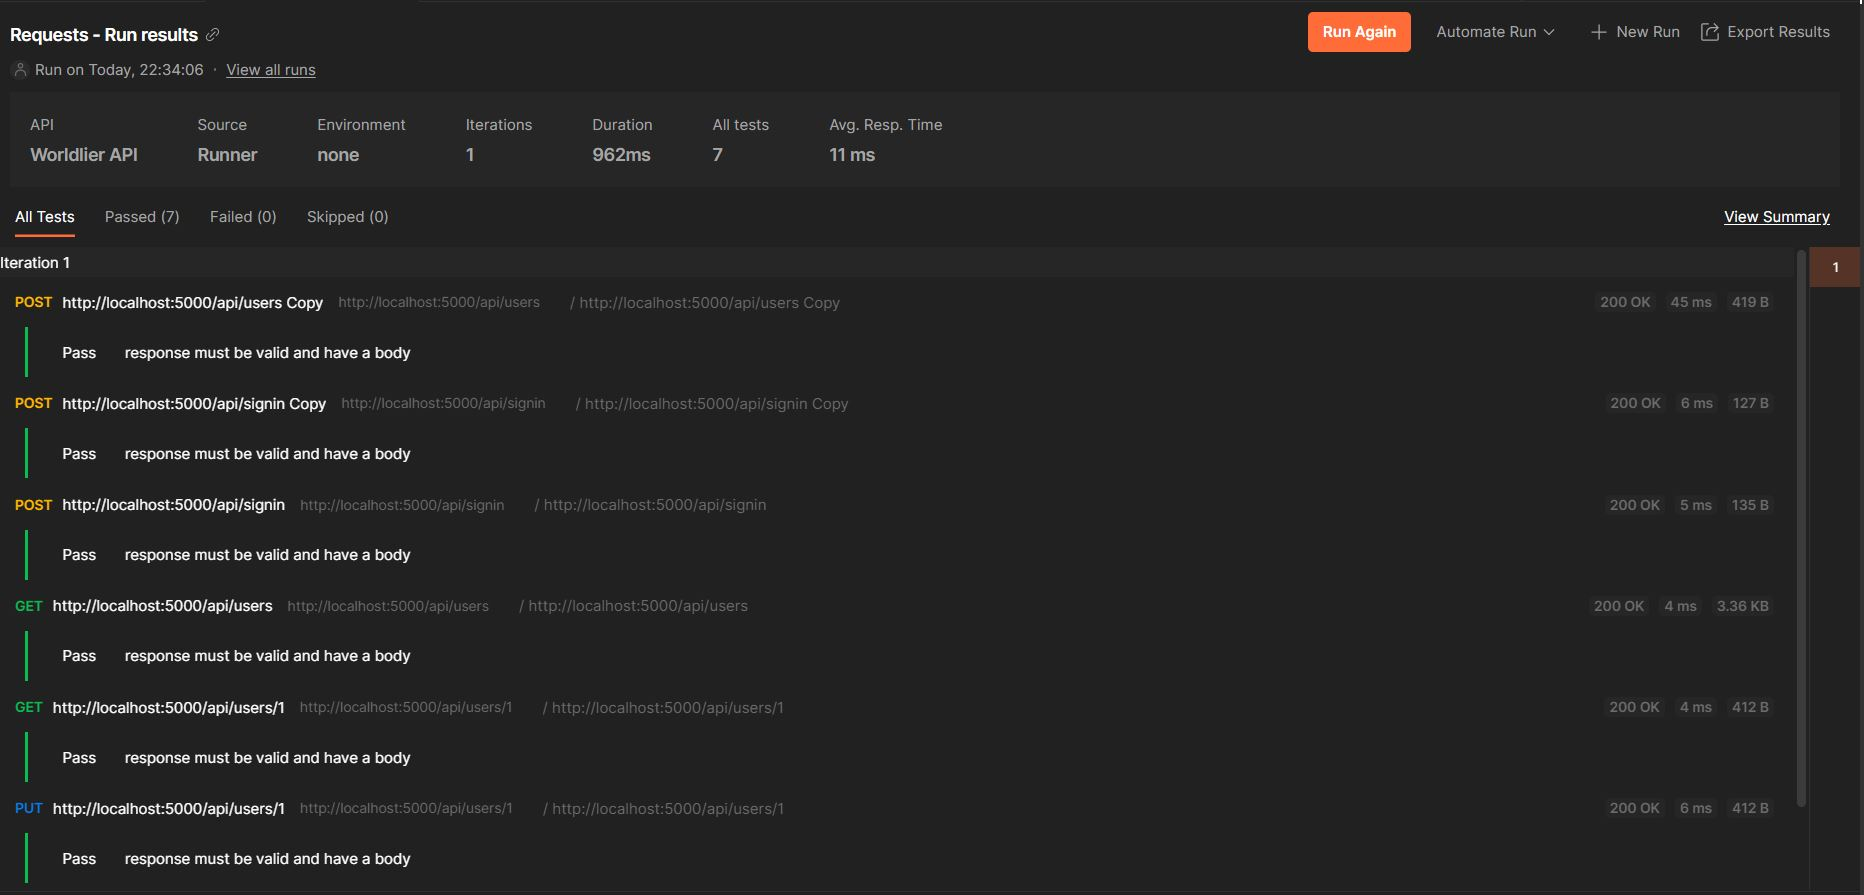
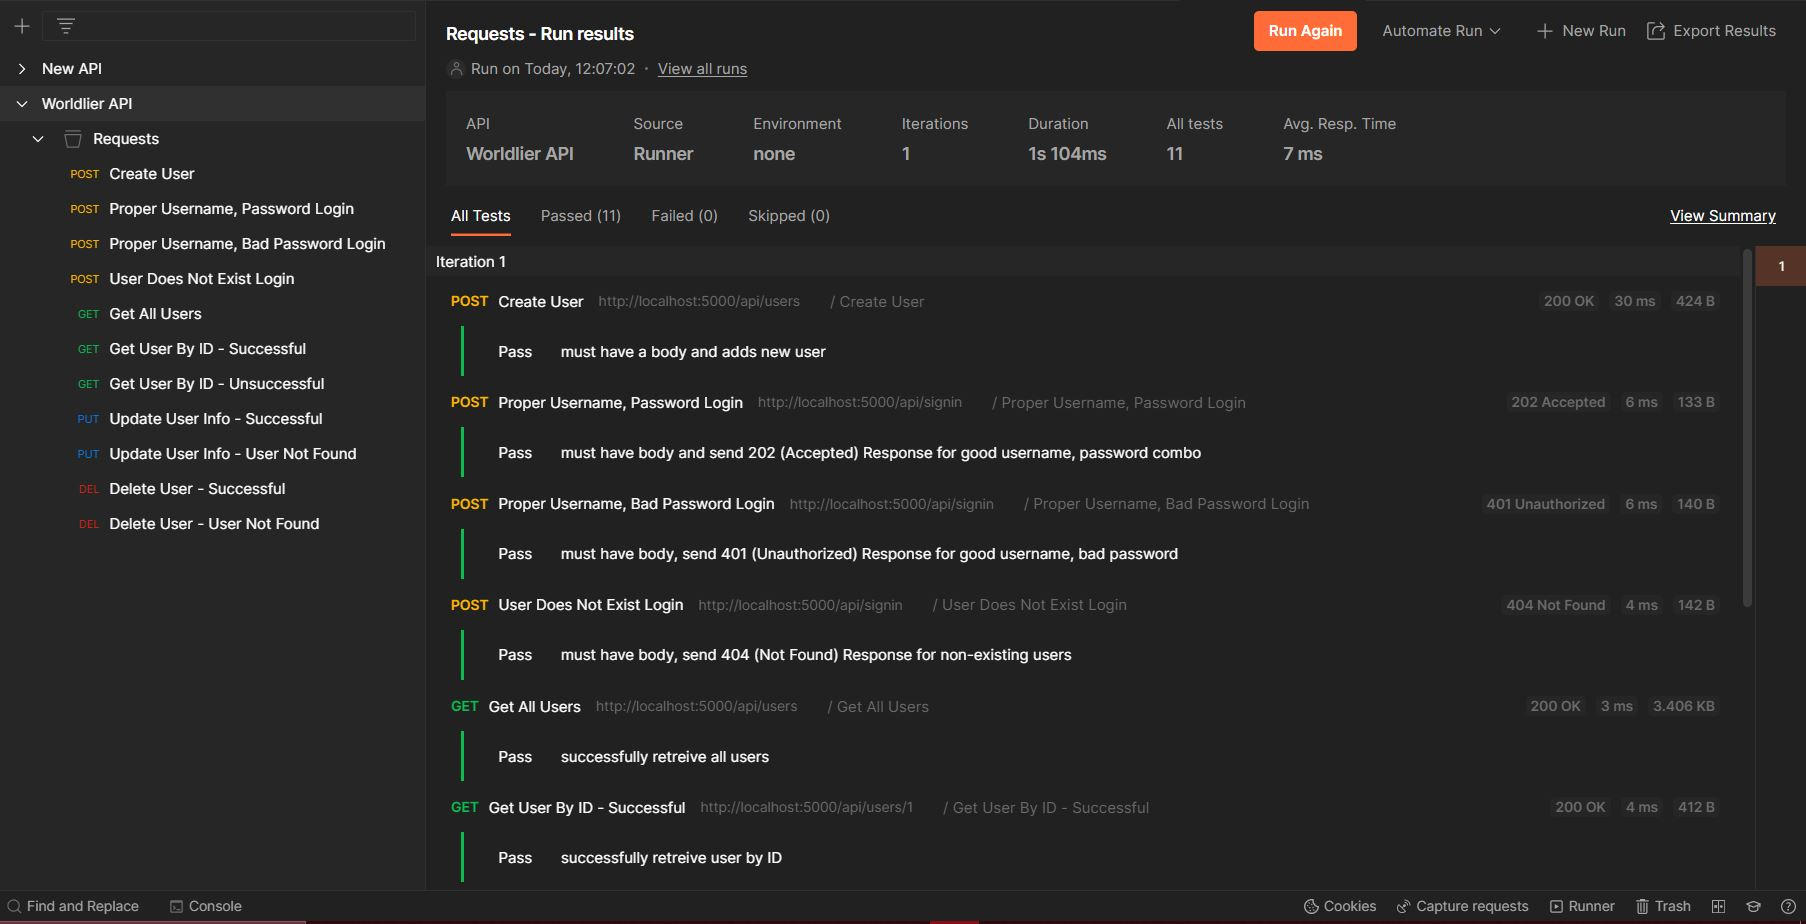
Sending proper HTTP response status codes

diff --git a/backend/user_controller.go b/backend/user_controller.go
@@ -66,15 +66,19 @@ func UserLoginAttempt(w http.ResponseWriter, r *http.Request) {
 	userName := user.Username
 	password := user.Password
 	if !(CheckIfUserNameExists(userName)) {
+		w.WriteHeader(http.StatusNotFound)
 		json.NewEncoder(w).Encode("No such username exists!")
 		return
 		// Checks if username does not exist
 	}
 	if !(CheckIfExactUserExists(userName, password)) {
+		w.WriteHeader(401)
 		json.NewEncoder(w).Encode("Incorrect password!")
 		return
 		// Checks if username exists, but password is incorrect
 	}
+	w.WriteHeader(202)
+	// Code for 'Accepted'
 	json.NewEncoder(w).Encode("Proceed to page!")
 	// Checks if username and password check out, from here, proceed to profile page
 }
@@ -83,6 +87,7 @@ func UserLoginAttempt(w http.ResponseWriter, r *http.Request) {
 func GetUserByName(w http.ResponseWriter, r *http.Request) {
 	userName := mux.Vars(r)["username"]
 	if !CheckIfUserNameExists(userName) {
+		w.WriteHeader(http.StatusNotFound)
 		json.NewEncoder(w).Encode("User Not Found! (NAME)")
 		return
 	}
@@ -102,6 +107,7 @@ func QueryHandler(w http.ResponseWriter, r *http.Request) {
 func GetUserById(w http.ResponseWriter, r *http.Request) {
 	userId := mux.Vars(r)["id"]
 	if !CheckIfUserIdExists(userId) {
+		w.WriteHeader(http.StatusNotFound)
 		json.NewEncoder(w).Encode("User Not Found!")
 		return
 	}
@@ -123,6 +129,7 @@ func GetUsers(w http.ResponseWriter, r *http.Request) {
 func UpdateUser(w http.ResponseWriter, r *http.Request) {
 	userId := mux.Vars(r)["id"]
 	if !CheckIfUserIdExists(userId) {
+		w.WriteHeader(http.StatusNotFound)
 		json.NewEncoder(w).Encode("User Not Found!")
 		return
 	}
